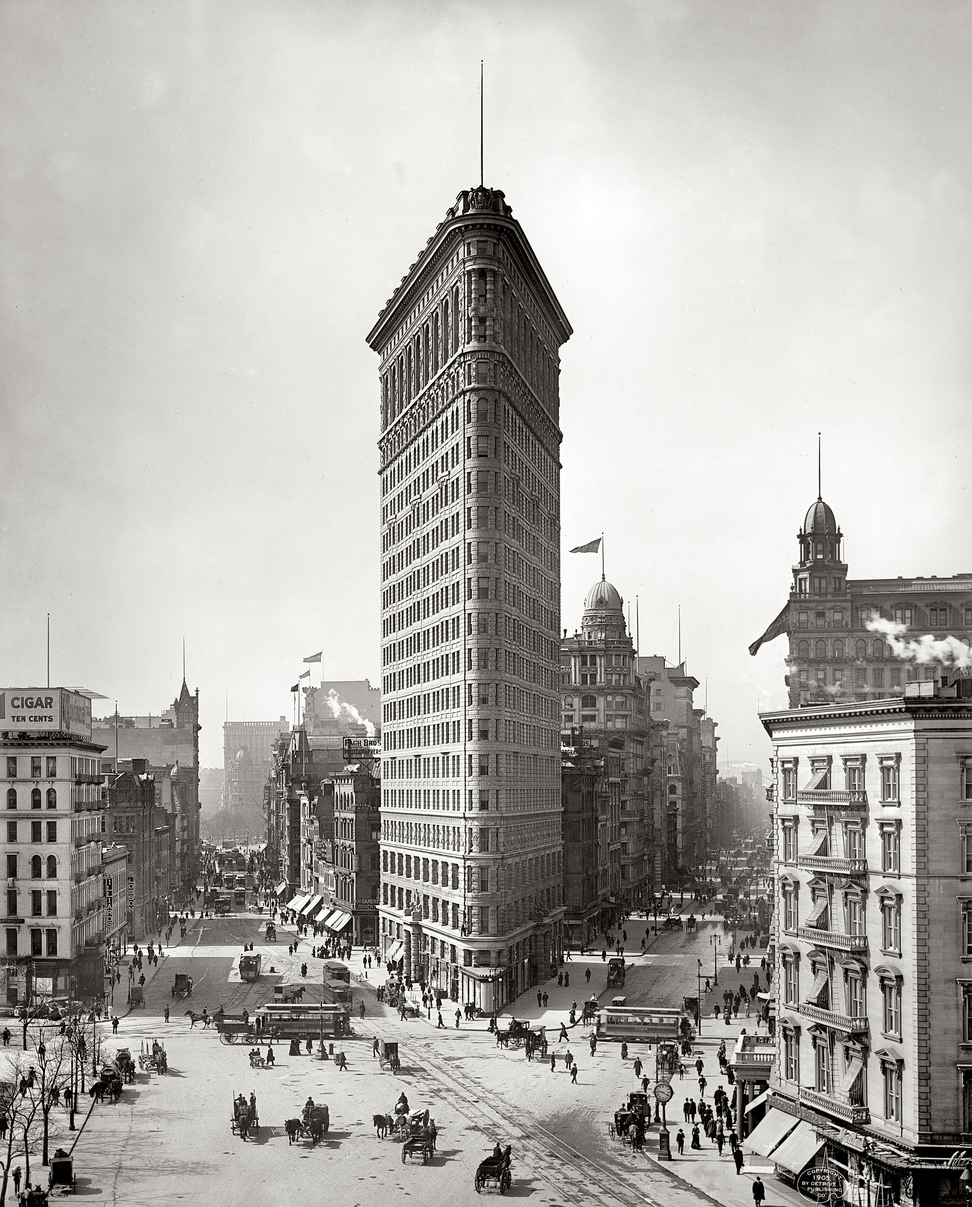
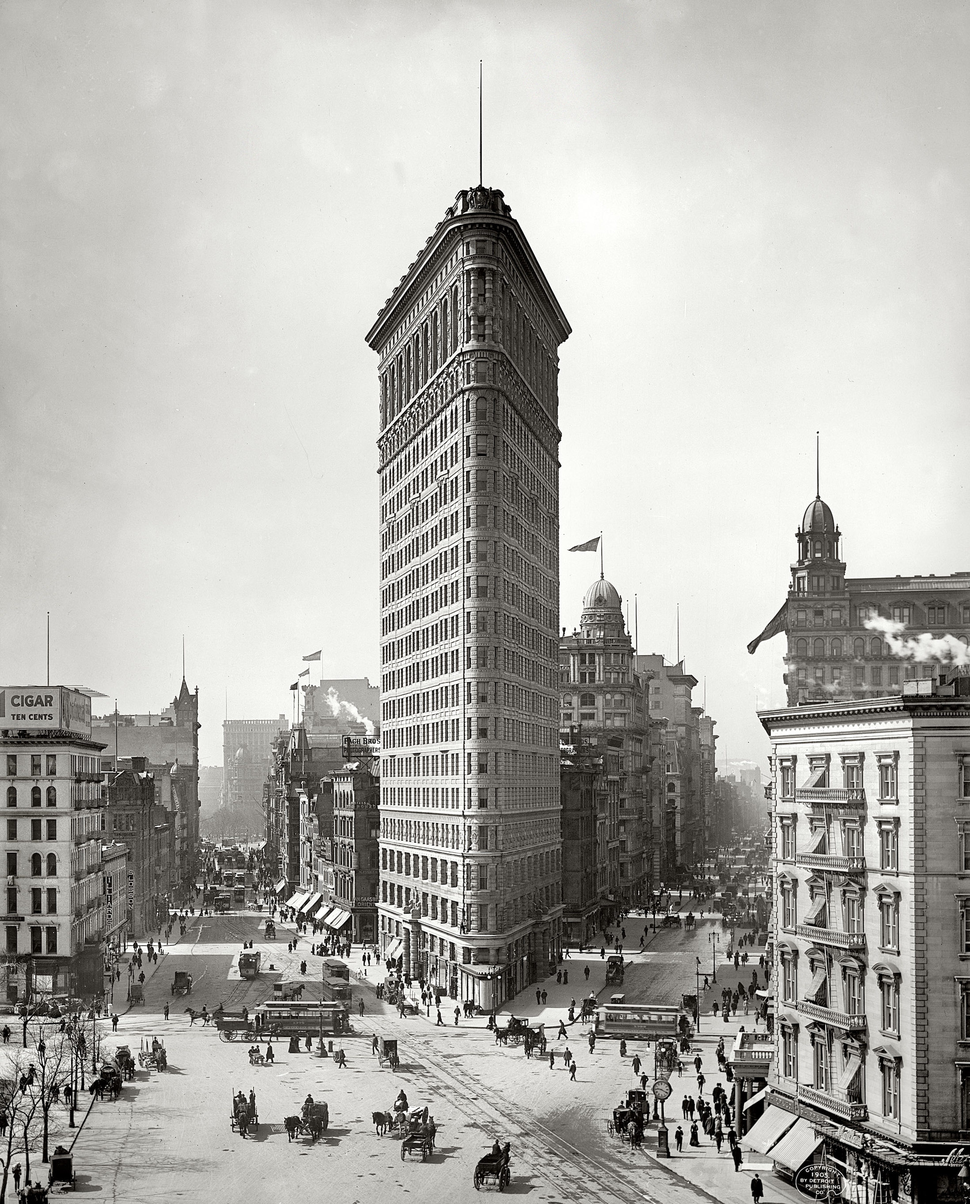
small view changes

diff --git a/public/js/toggle.js b/public/js/toggle.js
@@ -1,8 +1,13 @@
 $('.show_readme').show(); //show buttons
 $('.readme').hide(); // hide all readmes
-
+ 
 $('.show_readme').click(function(){
     var readme_id = $(this).data('id');
-    $('.readme').hide();
-    $('#p'+readme_id).fadeTo(200, 1);
+    if ($('#p'+readme_id).css('display')!='none'){
+      $('.readme').hide();
+    } 
+    else{
+      $('.readme').hide();
+      $('#p'+readme_id).fadeToggle(200, "linear");
+    }  
 });

diff --git a/public/css/bootstrap.css b/public/css/bootstrap.css
@@ -46,14 +46,14 @@ html {
 }
 
 body {
-  margin: 15px;
+  margin: 10px;
 }
 
 .background { 
   background-image: url("./../images/flatiron.jpg");
-  background-size: 100%;
+  background-size: cover;
   background-repeat: no-repeat;
-  background-position: 50% 20%; 
+  background-position: 50% 20%;
 }
 
 a {
